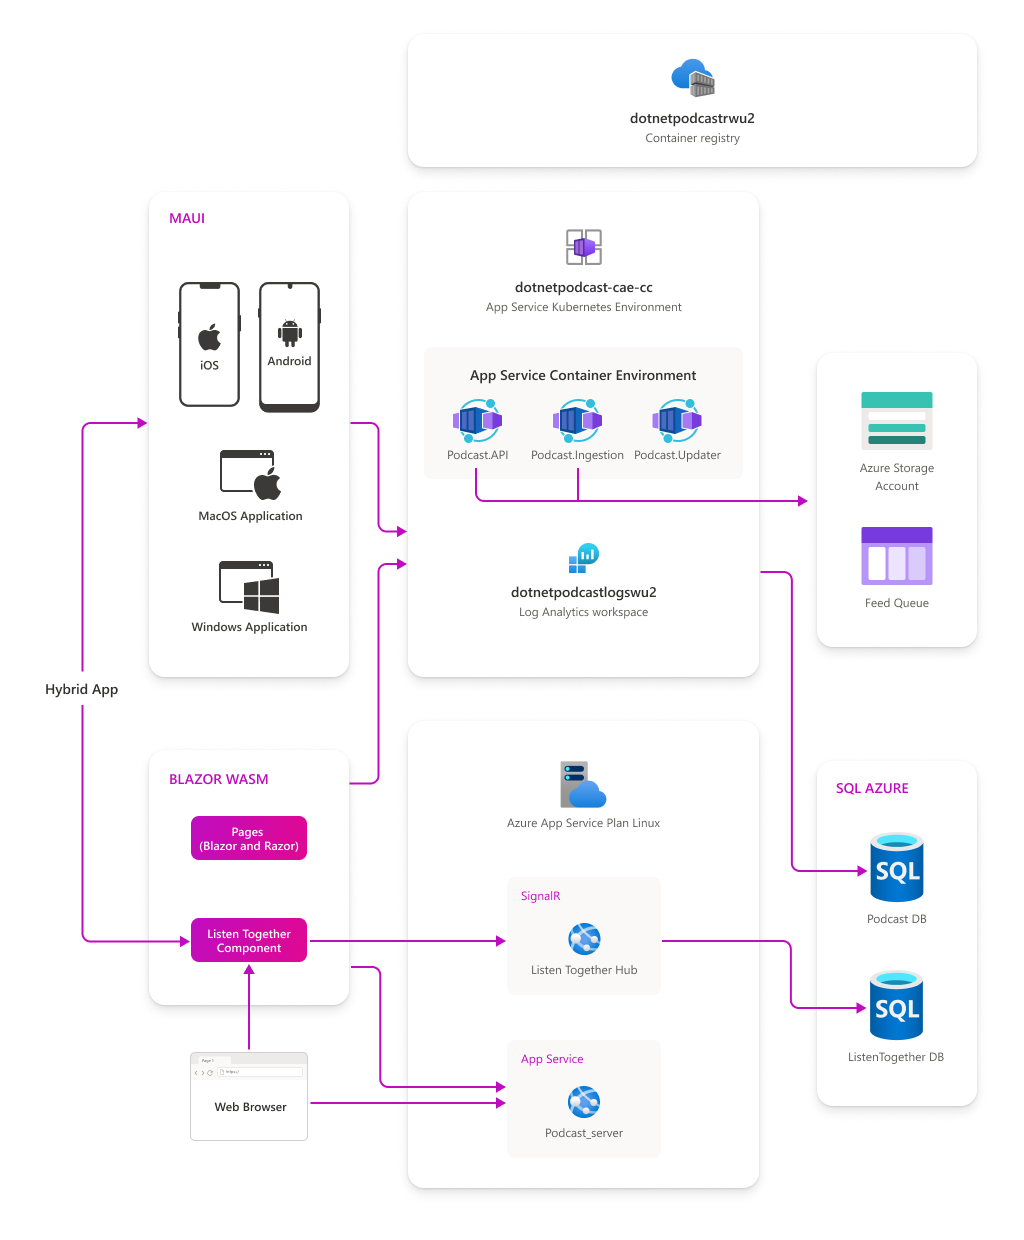
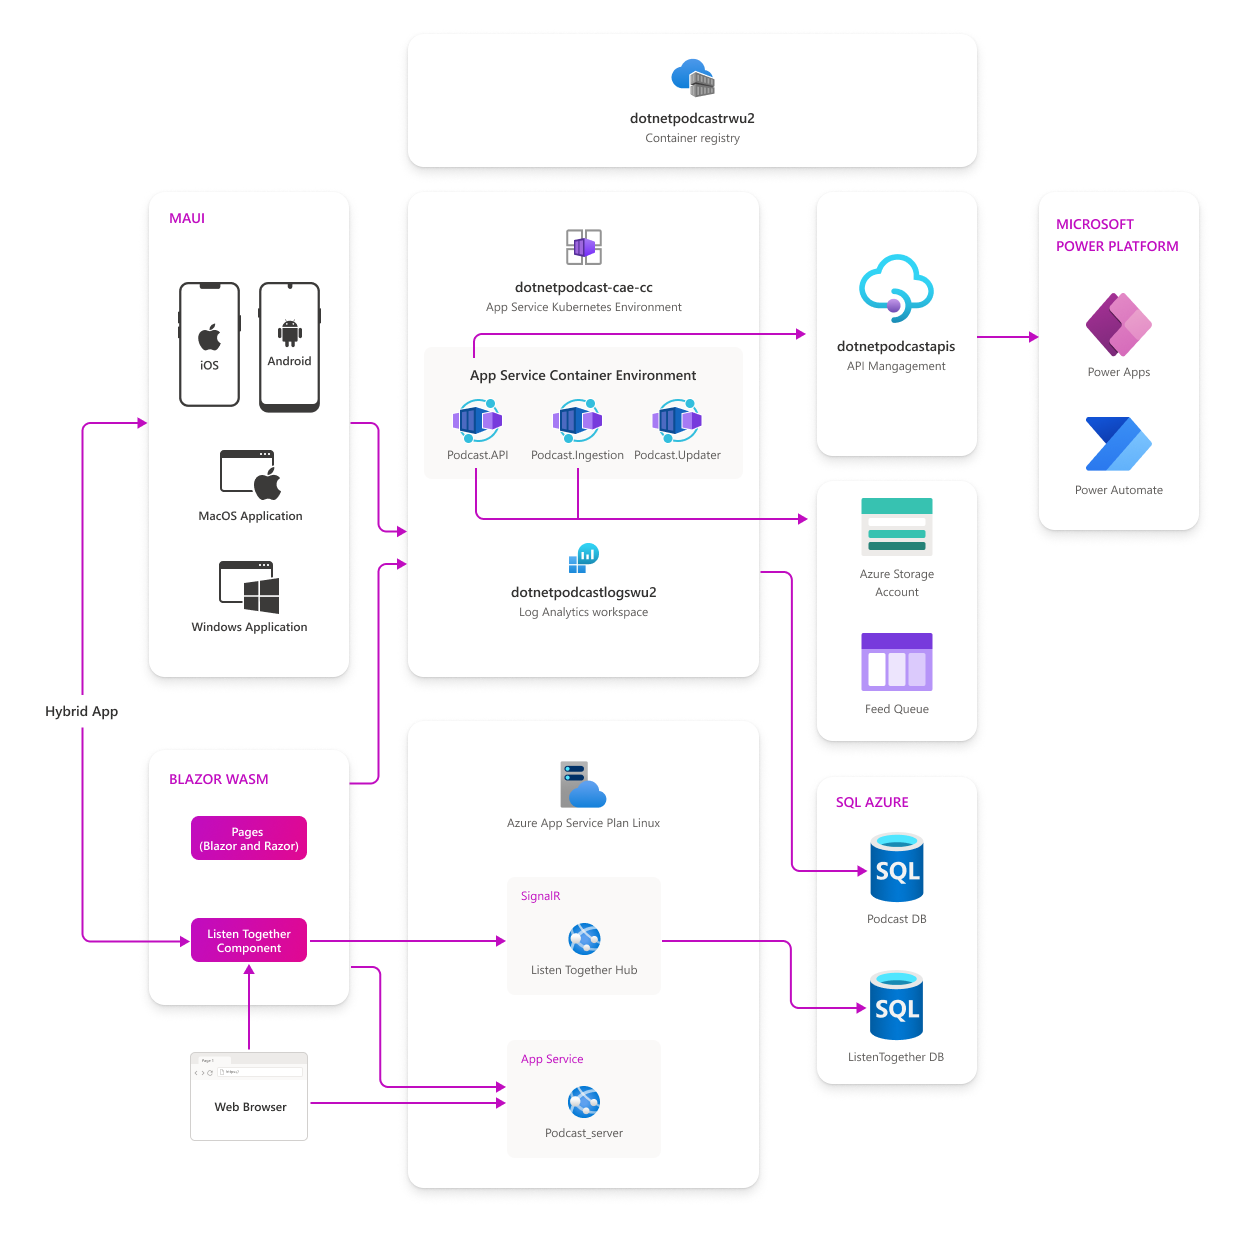
Updates v2 Power

diff --git a/docs/demos/powerapps/README.md b/docs/demos/powerapps/README.md
@@ -1,40 +1,43 @@
-# Podcast Approval application using Microsoft Power Apps
+# Podcast Approval App using Microsoft Power Apps
 
-Before getting started, ensure that you have access imported the application into your Power Apps environment. Follow the detailed guidelines [here](https://github.com/user/repo/src/PowerApps/README.md)
+Before getting started, ensure that you have successfully imported the Approval App into your Power Apps environment. Follow the detailed guidelines [here](https://github.com/user/repo/src/PowerApps/README.md)
 
 
 # Create a custom connector
 
-[Custom connectors](https://docs.microsoft.com/en-us/connectors/custom-connectors/) are a powerful way to connect to any existing API from within PowerApps. A custom connector is a wrapper around a REST API that allows the Power Platform to communicate with your REST API.
+[Custom connectors](https://docs.microsoft.com/en-us/connectors/custom-connectors/) are a powerful way to connect to any existing API from within Power Apps. A custom connector is a wrapper around a REST API that allows the Power Platform to communicate with your REST API.
 
 From within Azure API Management, you can easily create such custom connectors. [Follow the detailed guidelines](https://docs.microsoft.com/en-us/azure/api-management/export-api-power-platform) on how to export your API from API Management.
 
 # Connect your Podcast Approval application with your web API
 
 Open your Podcast Approval App within Power Apps:
+
 ![editpowerapp](./assets/editpowerapp.jpg)
 
 You will see a lot of error messages within your Power App:
+
 ![powerapp](./assets/powerapp.jpg)
 
-To fix these, we will have to add our custom connector to our Power App via the data tab:
-![customconnector](./assets/customconnector.jpg)
-*Note: Search for the name of your custom connector created via API Management.*
-*Note: If you have enabled subscription keys. You can find the subscription key within the Azure Portal in your API Management instance under Subscriptions.*
+To fix these, we will have to add the custom connector to your app via the data tab:
 
-# Update your Power App
+![customconnector](./assets/customconnector.jpg)
+*Note: Search for the name of your custom connector created via API Management. If you have enabled subscription keys. You can find the subscription key within the Azure Portal in your API Management instance under Subscriptions.*
+
+# Modify your Power App
 
 Next, we have to update our Power App via the Power Editor.
 
 
 ## OnStart
 
-Every time someone opens up the Power App, we want to make an API call getting us the information about current requests. For this we have to change our [OnStart behavior](https://docs.microsoft.com/en-us/power-platform/power-fx/reference/object-app) for the Power App. We need to update **'.NETPodcasts'.GetUserSubmittedFeeds()**:
-![onstart](./assets/onstart.jpg)
+Every time someone opens up the Power App, we want to make an API call getting us the information about current requests. For this we have to change our [OnStart behavior](https://docs.microsoft.com/en-us/power-platform/power-fx/reference/object-app) for the Power App. We update **'.NETPodcasts'.GetUserSubmittedFeeds()**:
 
 Additional Information:
-- **'.NETPodcasts'** is referencing the name of our custom connector
-- **GetUserSubmittedFeeds()** is referencing our API's method name
+- **'.NETPodcasts'** is referencing the name of the custom connector
+- **GetUserSubmittedFeeds()** is referencing the API's method name
+
+![onstart](./assets/onstart.jpg)
 
 
 # Refresh Button

diff --git a/src/PowerApps/README.md b/src/PowerApps/README.md
@@ -1,11 +1,11 @@
 # Podcast Approval application using Microsoft Power Apps
 
-Before getting started, ensure that you have access to [Microsoft Power Platform](https://make.powerapps.com/) and latest version of the [Microsoft Power Platform CLI](https://docs.microsoft.com/de-de/power-platform/developer/cli/introduction) installed. 
+Before getting started, ensure that you have access to [Microsoft Power Platform](https://make.powerapps.com/) and the latest version of the [Microsoft Power Platform CLI](https://docs.microsoft.com/de-de/power-platform/developer/cli/introduction). Or sign up for the [Power Apps Developer Plan](https://docs.microsoft.com/en-us/power-apps/maker/developer-plan).
 
 The solution folder is located in **/src/PowerApps/Solution.zip**. Please download this zip file.
 Before building the Power App, we need to import the app solution into our [Power Platform environment](https://docs.microsoft.com/en-us/power-platform/admin/environments-overview):
 
-# Importing our Power Apps solution
+# Importing Power Apps solution
 
 Open PowerShell and install the latest version of the PAC CLI:
 
@@ -15,20 +15,21 @@ pac install latest
 
 ## Authenticate & Select Environment
 
-Before I can import my solution, I must login to the right Power Platform environment using the PAC CLI via [pac auth](https://docs.microsoft.com/en-us/power-platform/developer/cli/reference/auth):
+Before I can import my solution, I have to authenticate to the right Power Platform environment using the PAC CLI, [pac auth](https://docs.microsoft.com/en-us/power-platform/developer/cli/reference/auth):
 
 ```PowerShell
 pac auth create --url https://org4xxxxxxx.api.crm4.dynamics.com
 ```
 
 You can get your environment URL from Power Platform Developer resources:
+
 ![DevResources](./assets/devresources.jpg)
 ![DevAPI](./assets/devapi.jpg)
 
 
 ## Import solution file
 
-Next, we can import the solution using the PAC CLI via [pac solution import](https://docs.microsoft.com/en-us/power-platform/developer/cli/reference/solution):
+Next, we can import the solution using the PAC CLI, [pac solution import](https://docs.microsoft.com/en-us/power-platform/developer/cli/reference/solution):
 
 ```PowerShell
 pac solution import --path C:\Users\name\Downloads\Solution.zip
@@ -37,6 +38,7 @@ pac solution import --path C:\Users\name\Downloads\Solution.zip
 ## Open up your Power App
 
 Your solution has been succesfully imported into your selected Power Platform environment. You can now find and edit your Power App:
+
 ![powerapp](./assets/powerapp.jpg)
 
 

diff --git a/README.md b/README.md
@@ -18,7 +18,7 @@ products:
 # .NET Podcasts - Sample Application
 
 The .NET Podcast app is a sample application showcasing [.NET 6](https://dotnet.microsoft.com/download/dotnet/6.0), [ASP.NET Core](https://dotnet.microsoft.com/apps/aspnet), [Blazor](https://dotnet.microsoft.com/apps/aspnet/web-apps/blazor), [.NET MAUI](https://dotnet.microsoft.com/apps/maui), [Azure Container Apps](https://azure.microsoft.com/services/container-apps/#overview), [Orleans](https://docs.microsoft.com/dotnet/orleans/overview), and more.
-In addition, an internal [Power App](https://docs.microsoft.com/en-us/power-apps/) was built to handle incoming podcast requests.
+In addition, we created a [Power App](https://docs.microsoft.com/en-us/power-apps/) to handle incoming podcast requests.
 
 You can browse a [live running version of the .NET Podcasts app](https://dotnetpodcasts.azurewebsites.net/) powered by ASP.NET Core and Blazor.
 
@@ -38,9 +38,9 @@ For this sample application, we build an app to listen to all your favorite .NET
 - [Backend API:](src/Services) ASP.NET Core Web APIs & Minimal APIs, ingestion worker, and podcast update worker
 - [Blazor Hybrid App:](src/MobileBlazor) Sample hybrid application of .NET MAUI with Blazor.
 
-Additionally, we build an application using [Microsoft Power Apps](https://docs.microsoft.com/en-us/power-apps/) to allow users to reject or accept incoming podcast requests.
+Additionally, we build an application using [Microsoft Power Apps](https://docs.microsoft.com/en-us/power-apps/) to allow us to reject or accept incoming podcast requests.
 
-- [Microsoft Power Apps:](src/PowerApps) Power Apps sample to handle incoming podcast requests.
+- [Microsoft Power Apps:](src/PowerApps) Power Apps sample to handle incoming podcast requests. [Follow these guidelines](src/PowerApps) on how to import the Power App into your own Power Platform envrionment.
 
 ## Full Deployment with GitHub Actions
 
